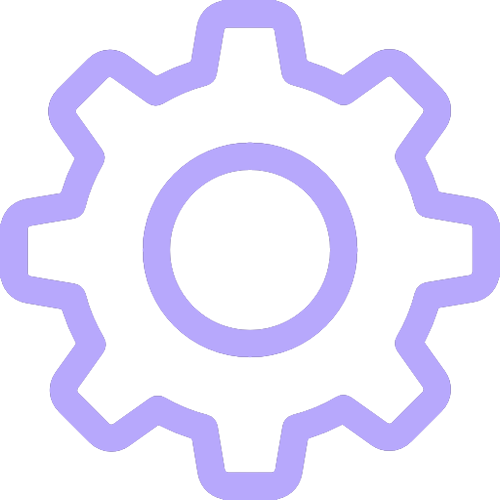
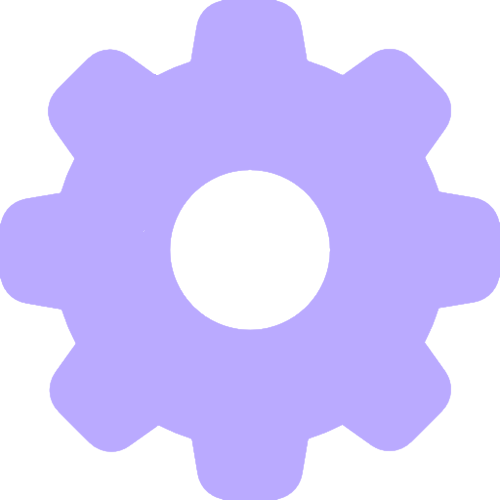
IKONER og python script for å fjerne innfyllet

diff --git a/home.html b/home.html
@@ -38,12 +38,12 @@
                         </a>
                         <a href="viewprofile.html?brukernavn=brukernavn" class="hiddenButton genericButton"
                             class="profil">
-                            <img src="bilder/profile.png" height="30" alt="">
+                            <img src="bilder/profil_hul.png" height="30" alt="">
                             <div class="buttonText">Profil</div>
                         </a>
                         <a href="settings.html" class="hiddenButton genericButton" id="innstillinger">
-                            <img src="bilder/settings.png" height="30" alt="">
-                            <div class="buttonText">Instillinger</div>
+                            <img src="bilder/settings_hul.png" height="30" alt="">
+                            <div class="buttonText">Innstillinger</div>
                         </a>
                     </div>
 
@@ -62,7 +62,7 @@
                         </div>
                         <div id="menyindikator">
                             <!-- tre prikker -->
-                            <img src="bilder/tredots-removebg-preview.png" width="30" height="30" alt="">
+                            <img src="bilder/tredots.png" width="30" height="30" alt="">
                         </div>
                     </button>
                 </div>
@@ -114,26 +114,28 @@
                                     <button title="trykk for å legge til en kommentar"
                                         class="tweetknappkommentar tweetknapp genericButton hiddenButton">
                                         <span title="10000">10.0k</span>
-                                        Kommentarer
+                                        <img src="bilder/comment_hul.png" height="20" alt="Kommentarer">
                                     </button>
                                     
                                     <button title="trykk for å retweete"
                                         class="tweetknappretweet tweetknapp genericButton hiddenButton">
                                         <span title="10000">10.0k</span>
-                                        Retweets
+                                        <img src="bilder/retweet_hul.png" height="20" alt="Retweets">
+                                        
                                     </button>
                                     
                                     <button title="trykk for å like"
                                         class="tweetknapplikes tweetknapp genericButton hiddenButton">
                                         <span title="10000">10.0k</span>
-                                        Likes
+                                        <img src="bilder/heart_hul.png" height="20" alt="Likes">
+                                        
                                     </button>
 
                                     <button class="tweetknappviews tweetknapp genericButton hidden">
                                         <span title="10000">10.0k</span>
-                                        Views
+                                        <img src="bilder/eye_hul.png" height="30" alt="Views">
+                                        
                                     </button>
-                                    <!-- optional: button to copy url -->
                                 </div>
                             </div>
                         </div>
@@ -153,12 +155,12 @@
                     <div id="sok">
                         <input type="text" placeholder="Search on the Bark web..." id="sokfelt"></input>
                         <button id="fjernQueryKnapp" class="hiddenButton">
-                            <img src="bilder/claer.png" width="20" height="20" alt="fjernQueryKnapp">
+                            <img src="bilder/clear_hul.png" width="20" height="20" alt="fjernQueryKnapp">
                         </button>
                         <button id="sokknapp" class="hiddenButton">
                             <!-- når denne trykkes skal vi navigere til en ny side som ligner 
                              -->
-                            <img src="bilder/searchlogo.png" width="25" height="25" alt="sokeknapp">
+                            <img src="bilder/search_hul.png" width="25" height="25" alt="sokeknapp">
                         </button>
                     </div>
                     <div class="whotofollow">

diff --git a/hoved.css b/hoved.css
@@ -125,7 +125,7 @@ body {
     position: sticky;
     top: 0px;
     border-right: solid rgb(239, 243, 244) 1px;
-
+    min-width: 250px;
 }
 
 #hoyrekolonne {
@@ -347,6 +347,7 @@ body {
     padding-right: 55px;
     font-size: 1.25em;
     border-radius: 9999px;
+    
 }
 .aatweetknapp:hover {
     background-color: #a99aff;
@@ -415,4 +416,10 @@ body {
 }
 .tweetknapp{
     display: inline-block;
+    display: flex;
+    align-items: center;
+    justify-content: center;
+}
+.tweetknapp>*:nth-child(1){
+    margin-right: 5px;
 }

diff --git a/fjerneinnsidenavbilder.py b/fjerneinnsidenavbilder.py
@@ -1,0 +1,63 @@
+import png
+import os
+import numpy as np
+import numba
+
+@numba.jit(nopython=True)
+def searchAroundPixel(x:int, y:int, radius:float, img_array: np.ndarray, new_array: np.ndarray, width: int, height: int) -> np.ndarray:
+    pixeldata = img_array[y][x*4:x*4+4]
+    pixeldiffuse = 2
+    steps = 6
+    for i in np.arange(-1,pixeldiffuse-1, 1/steps):
+        for y2 in range(y-int(radius+i),y+int(radius+i)):
+            for x2 in range(x-int(radius+i),x+int(radius+i)):
+                
+                # keep if distance to border is less than radius
+                if abs(x) < radius+i or abs(y) < radius+i or abs(x-width) < radius+i or abs(y-height) < radius+i:
+                    return np.array([pixeldata[0],pixeldata[1],pixeldata[2],pixeldata[3]* (1 - (i+1)/pixeldiffuse)], dtype=np.uint8) 
+                if x2 == x and y2 == y:
+                    continue
+                if (x2-x)**2 + (y2-y)**2 > (radius+i)**2:
+                    continue
+                if y2 < 0 or y2 >= height or x2 < 0 or x2 >= width:
+                    return np.array([pixeldata[0],pixeldata[1],pixeldata[2],pixeldata[3]* (1 - (i+1)/pixeldiffuse)], dtype=np.uint8) 
+                
+                                        
+                pixeldata2 = img_array[y2][x2*4:x2*4+4]
+                
+                if pixeldata2[3] <= 127:
+                    return np.array([pixeldata[0],pixeldata[1],pixeldata[2],pixeldata[3]* (1 - (i+1)/pixeldiffuse)], dtype=np.uint8) 
+    
+    return np.array([0,0,0,0], dtype=np.uint8)
+                # print(pixeldata)
+
+def fjerninnside(filnavn):
+    print ("Fjerner innside av", filnavn)
+    with open(filnavn,"rb") as f:
+        img = png.Reader(file=f)
+        read = img.read()
+        width, height, pixels, metadata = read
+        img_array = np.array(list(pixels))
+        # same shape but all 0
+        print(img_array.shape, width, height)
+        new_array = np.zeros(img_array.shape, dtype=np.uint8) # 500x2000
+        for y in range(height): # 0 to 500
+            if y % 10 == 0:
+                print(y/height*100, "%")
+            for x in range(width): # 0 to 500
+                pixeldata = img_array[y][x*4:x*4+4]
+                if pixeldata[3] == 0:
+                    continue
+                radius = 28/500*height # 28 pixels is 500 pixels high
+                # search in a 28 pixel circular radius if there is a pixel with 0 alpha, then keep the current pixel
+                new_array[y][x*4:x*4+4] = searchAroundPixel(x, y, radius, img_array, new_array, width, height)
+
+
+
+        png.from_array(new_array, mode="RGBA").save("output/"+"_hul.".join(filnavn.split("/")[-1].split(".")))
+
+
+for fil in os.listdir("output"):
+    if fil.endswith(".png"):
+        fjerninnside("output/"+fil)
+# fjerninnside("bilder/home.png")

diff --git a/settallefargertilBAAAFF.py b/settallefargertilBAAAFF.py
@@ -1,0 +1,28 @@
+import png
+import os
+import numpy as np
+
+def fjerninnside(filnavn):
+    print ("fikser på fargen til", filnavn)
+    with open(filnavn,"rb") as f:
+        img = png.Reader(file=f)
+        read = img.read()
+        width, height, pixels, metadata = read
+        img_array = np.array(list(pixels))
+        print(img_array.shape, width, height)
+        for y in range(height): # 0 to 500
+            if y % 10 == 0:
+                print(y/height*100, "%")
+            for x in range(width): # 0 to 500
+                pixeldata = img_array[y][x*4:x*4+4]
+                if pixeldata[3] == 0:
+                    continue
+                img_array[y][x*4:x*4+3] = [186, 170, 255]
+
+        png.from_array(img_array, mode="RGBA").save("output/"+filnavn.split("/")[-1])
+
+
+for fil in os.listdir("output"):
+    if fil.endswith(".png"):
+        fjerninnside("output/"+fil)
+# fjerninnside("bilder/home.png")
